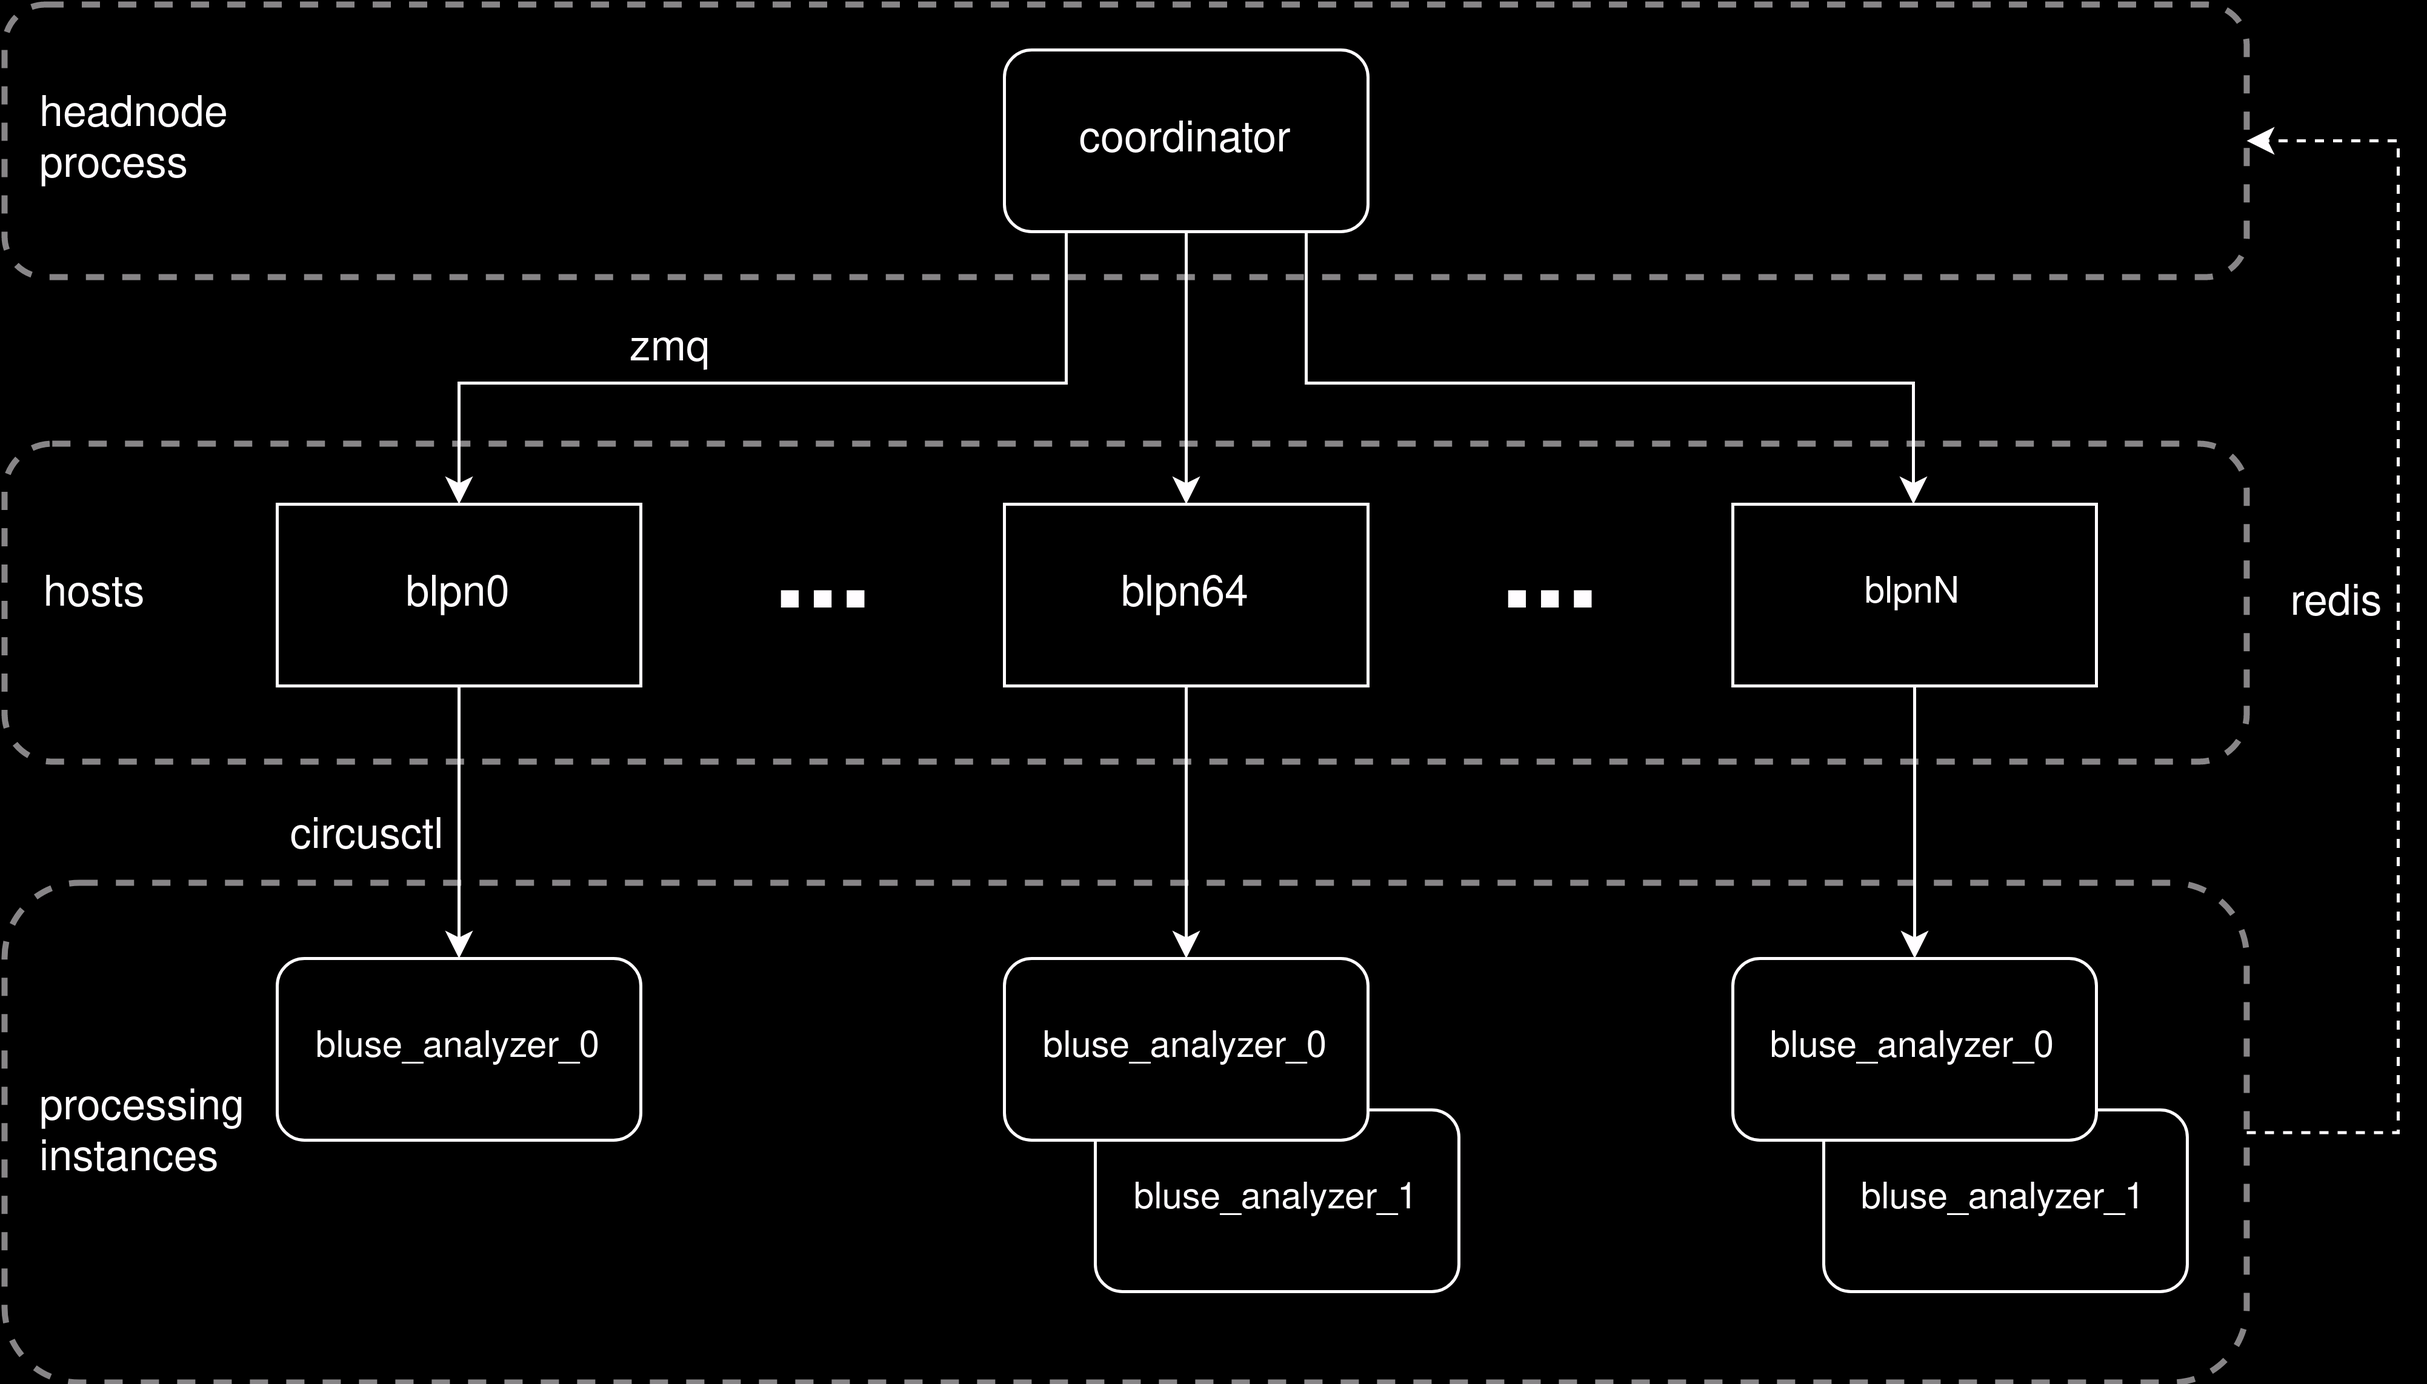
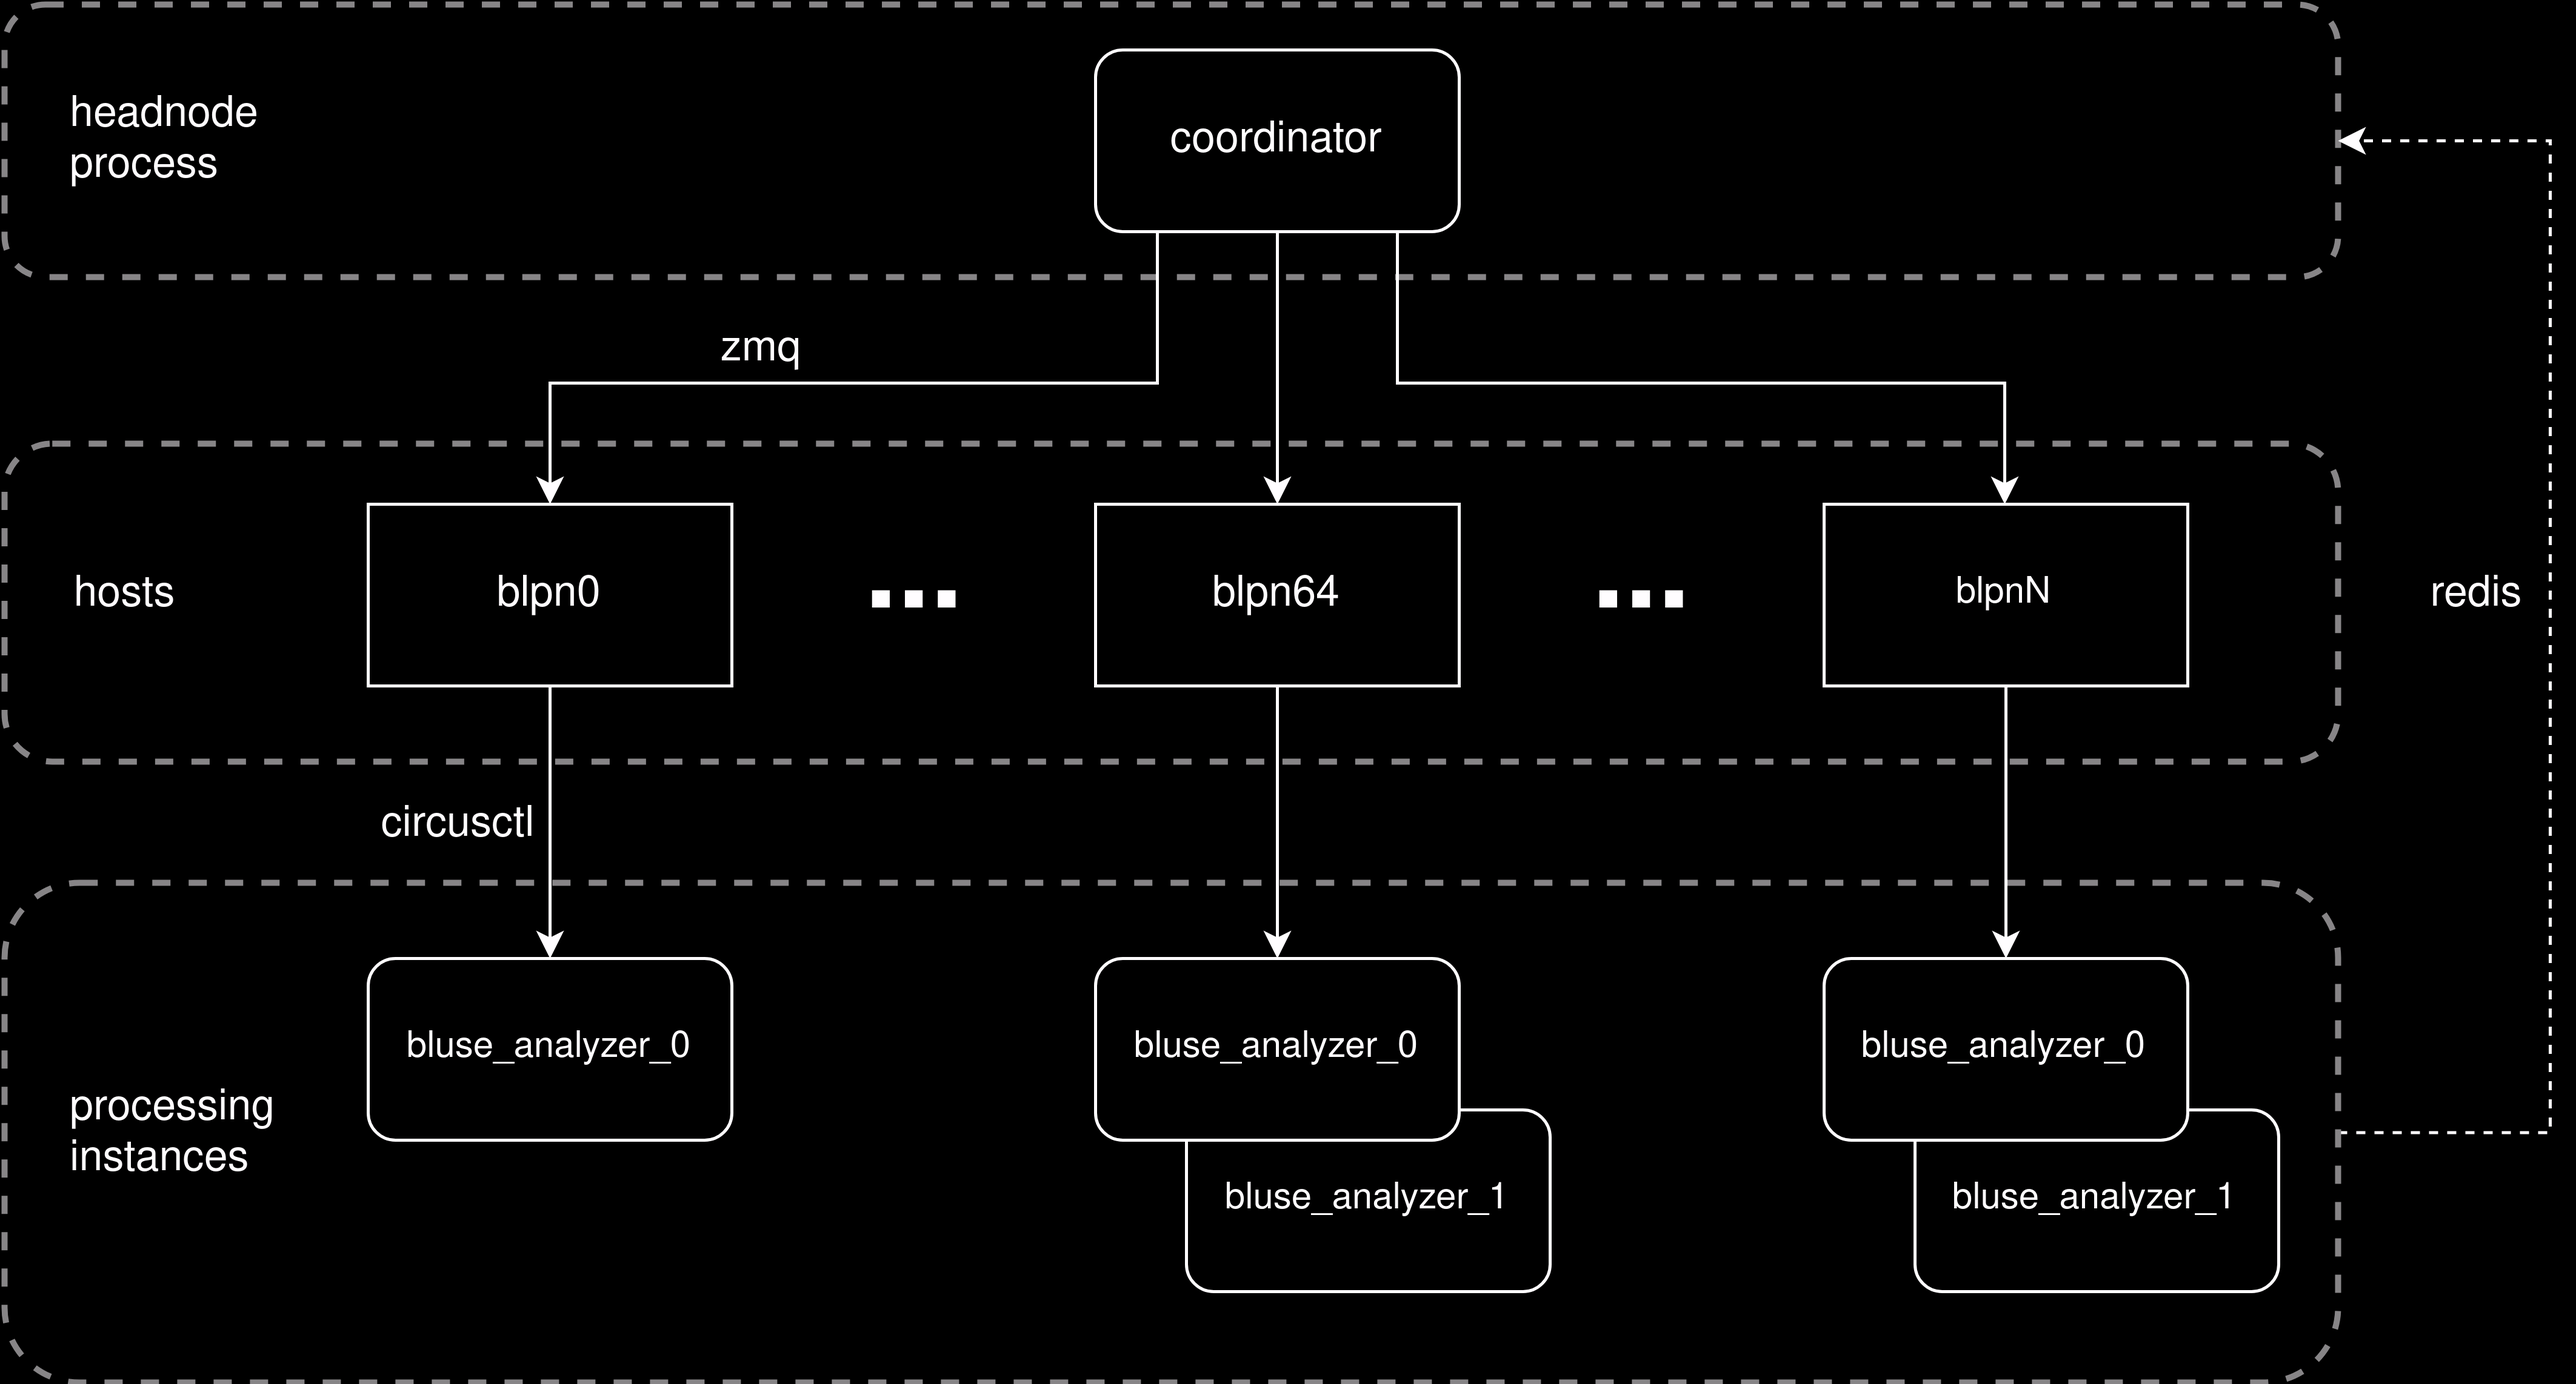
Update docs. New diagrams.

diff --git a/README.md b/README.md
@@ -54,18 +54,60 @@ and other ancillary tasks.
 
 <img src="docs/rec_proc.png" alt="rec_proc" width=80%/>
 
-## Dependencies
+### Instance allocation:
+
+The diagram below provides a simplified example of instance allocation, in
+which there are 7 instances and three subarrays. Three instances are
+unassigned, while two each are assigned to `array_1` and `array_2`. `array_3`
+does not have any instances allocated to it.
+
+<img src="docs/allocation_example.png" alt="allocation_example" width=90%/>
+
+The boxes and lines in different colours indicate the sets of instances that
+are shared between state machines. There is only one `free` set, which is
+shared by all `freesubscribed` machines. Each subarray's `freesubscribed` and
+`recproc` machines share a `subscribed` set. State changes are resolved in
+sequence, so each machine has its own turn to move instances between sets.
+
+### State saving and loading
+
+The states of each subarray's state machines (`recproc` and `freesubscribed`)
+are saved in Redis as a dictionary in JSON. This takes place every time a
+state change occurs. On startup, for each subarray, the coordinator checks to
+see if state data has been saved previously. If so, it initialises each state
+machine with the appropriate state and instance allocation, recreating the
+last known configuration when the coordinator was last active. This allows the
+coordinator to recover from interruptions, or for modifications to be made in
+the midst of an active subarray.
+
+State data is saved under several keys. The first is saved in Redis under the
+key `free_instances`. This is a JSON-formatted list of all unassigned
+instances, for example:
 
 ```
-Python >= 3.9.12
-pyzmq >= 25.0.0
-PyYAML >= 6.0
-katsdptelstate >= 0.11 (see https://github.com/ska-sa/katsdptelstate)
-redis >= 3.4.1
-requests == 2.28.1 
-numpy >= 1.18.1 
-circusd >= 0.12.1 
-```  
+["blpn0/0", "blpn1/0", "blpn2/0" ...]
+```
+
+The remaining state data is saved for each subarray under the key
+`<array name>:state`. The structure of the (JSON-formatted) dictionary is as
+follows:
+
+```
+state_data = {
+    "recproc_state": <state name>,
+    "freesub_state": <state name>,
+    "subscribed": <list of instances>,
+    "ready": <list of instances>,
+    "recording": <list of instances>,
+    "processing": <list of instances>,
+    "timestamp": <timestamp of data>
+}
+```
+
+If these keys are not available in Redis, the coordinator assumes all
+`recproc` machines are in the `READY` state, with all instances stored
+in `ready`, and that all `freesubscribed` machines are in the `FREE`
+state, with all instances stored in `free`.
 
 ## Installation and Deployment (BLUSE)
 
@@ -106,6 +148,19 @@ For use as a daemonised process with `circus`, follow these steps:
 -    Run `circusctl --endpoint <endpoint> reloadconfig`
 
 -    Run `circusctl --endpoint <endpoint> start coordinator`
+
+## Dependencies
+
+```
+Python >= 3.9.12
+pyzmq >= 25.0.0
+PyYAML >= 6.0
+katsdptelstate >= 0.11 (see https://github.com/ska-sa/katsdptelstate)
+redis >= 3.4.1
+requests == 2.28.1
+numpy >= 1.18.1
+circusd >= 0.12.1
+```
 
 ## Running the coordinator alongside the old automator/coordinator
 
